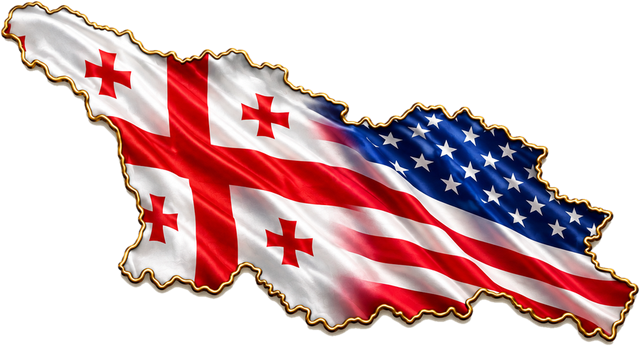
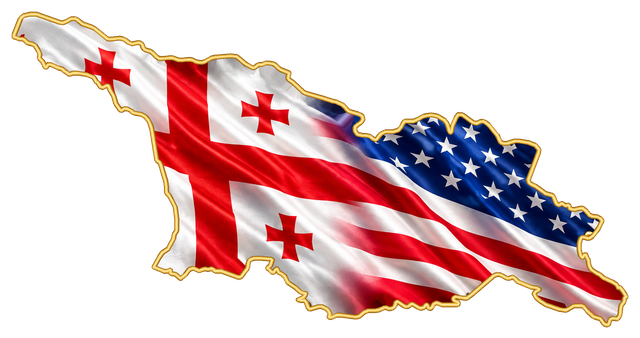
Centrepiece: real Georgia outline (Natural Earth) filled with merged flags
Claude-Session: https://claude.ai/code/session_01MB3v3z9V9yan3LkEkSsb6b

diff --git a/src/components/OrbitFeed.tsx b/src/components/OrbitFeed.tsx
@@ -220,7 +220,7 @@ export function OrbitFeed({
   const planetScale = breathe.interpolate({ inputRange: [0, 1], outputRange: [1, 1.05] });
   const planetGlow = breathe.interpolate({ inputRange: [0, 1], outputRange: [0.65, 1] });
   const MAP_W = Math.min(150, S * 0.44);
-  const MAP_H = (MAP_W * 486) / 900;
+  const MAP_H = (MAP_W * 338) / 640;
 
   return (
     <View style={styles.wrap}>
